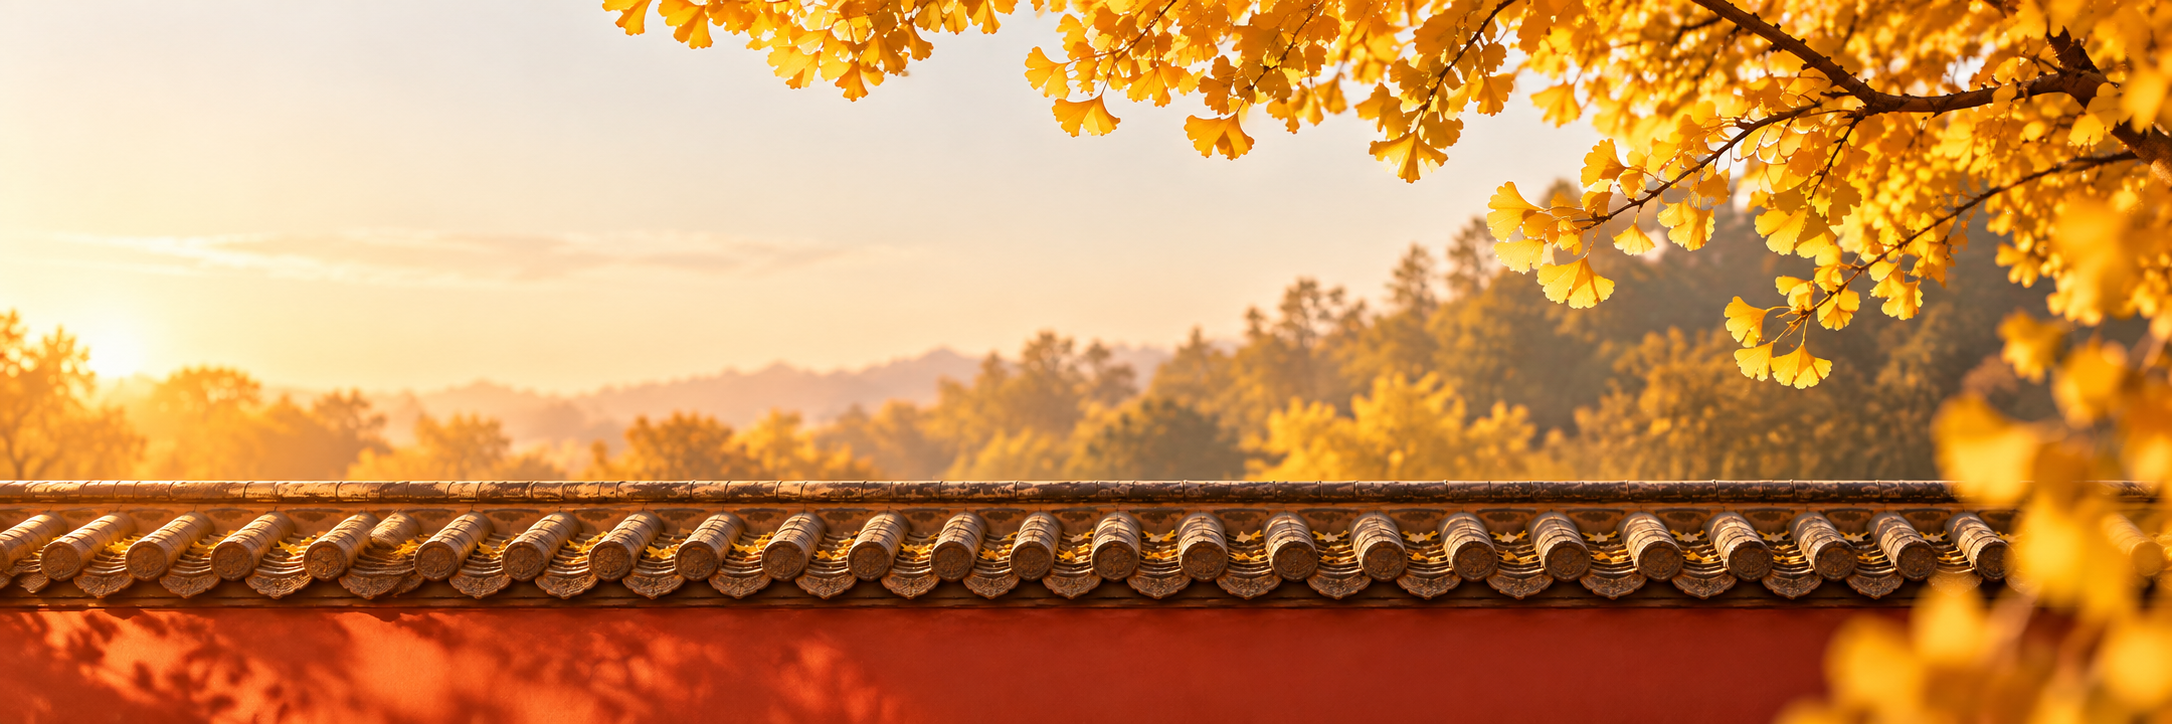
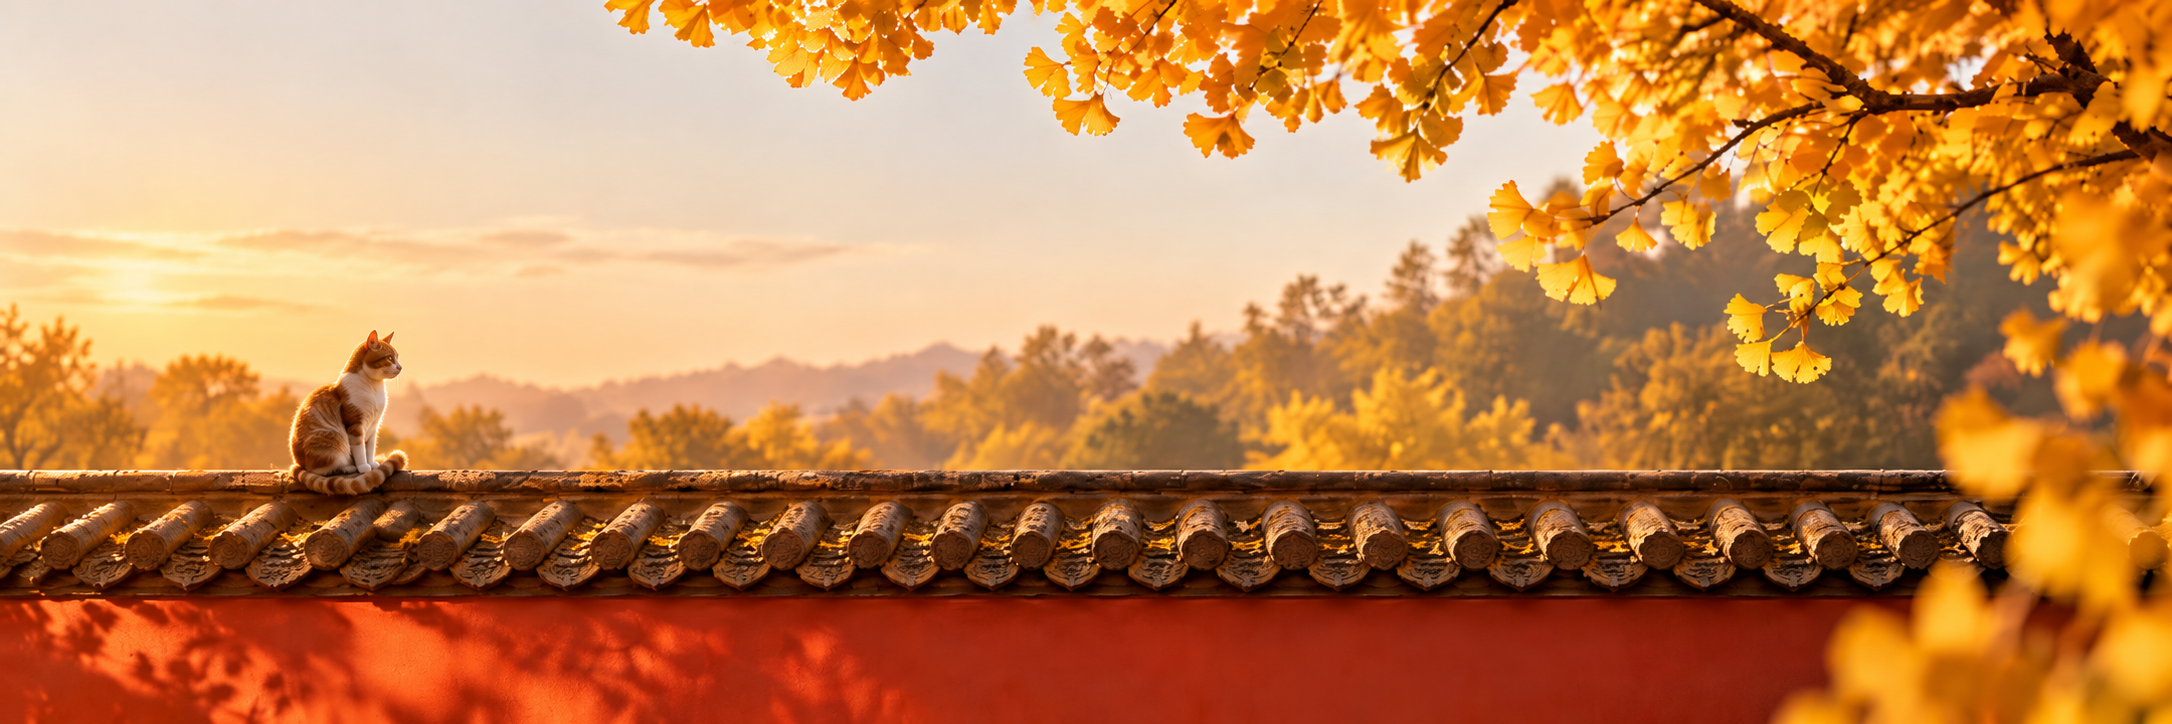
up

diff --git a/assets/ananke/css/home-image.css b/assets/ananke/css/home-image.css
@@ -1,5 +1,5 @@
 body.is-home header.cover {
-  aspect-ratio: 3 / 1;
+  aspect-ratio: 4 / 1;
   min-height: 280px;
   background-size: cover;
   background-position: center;
